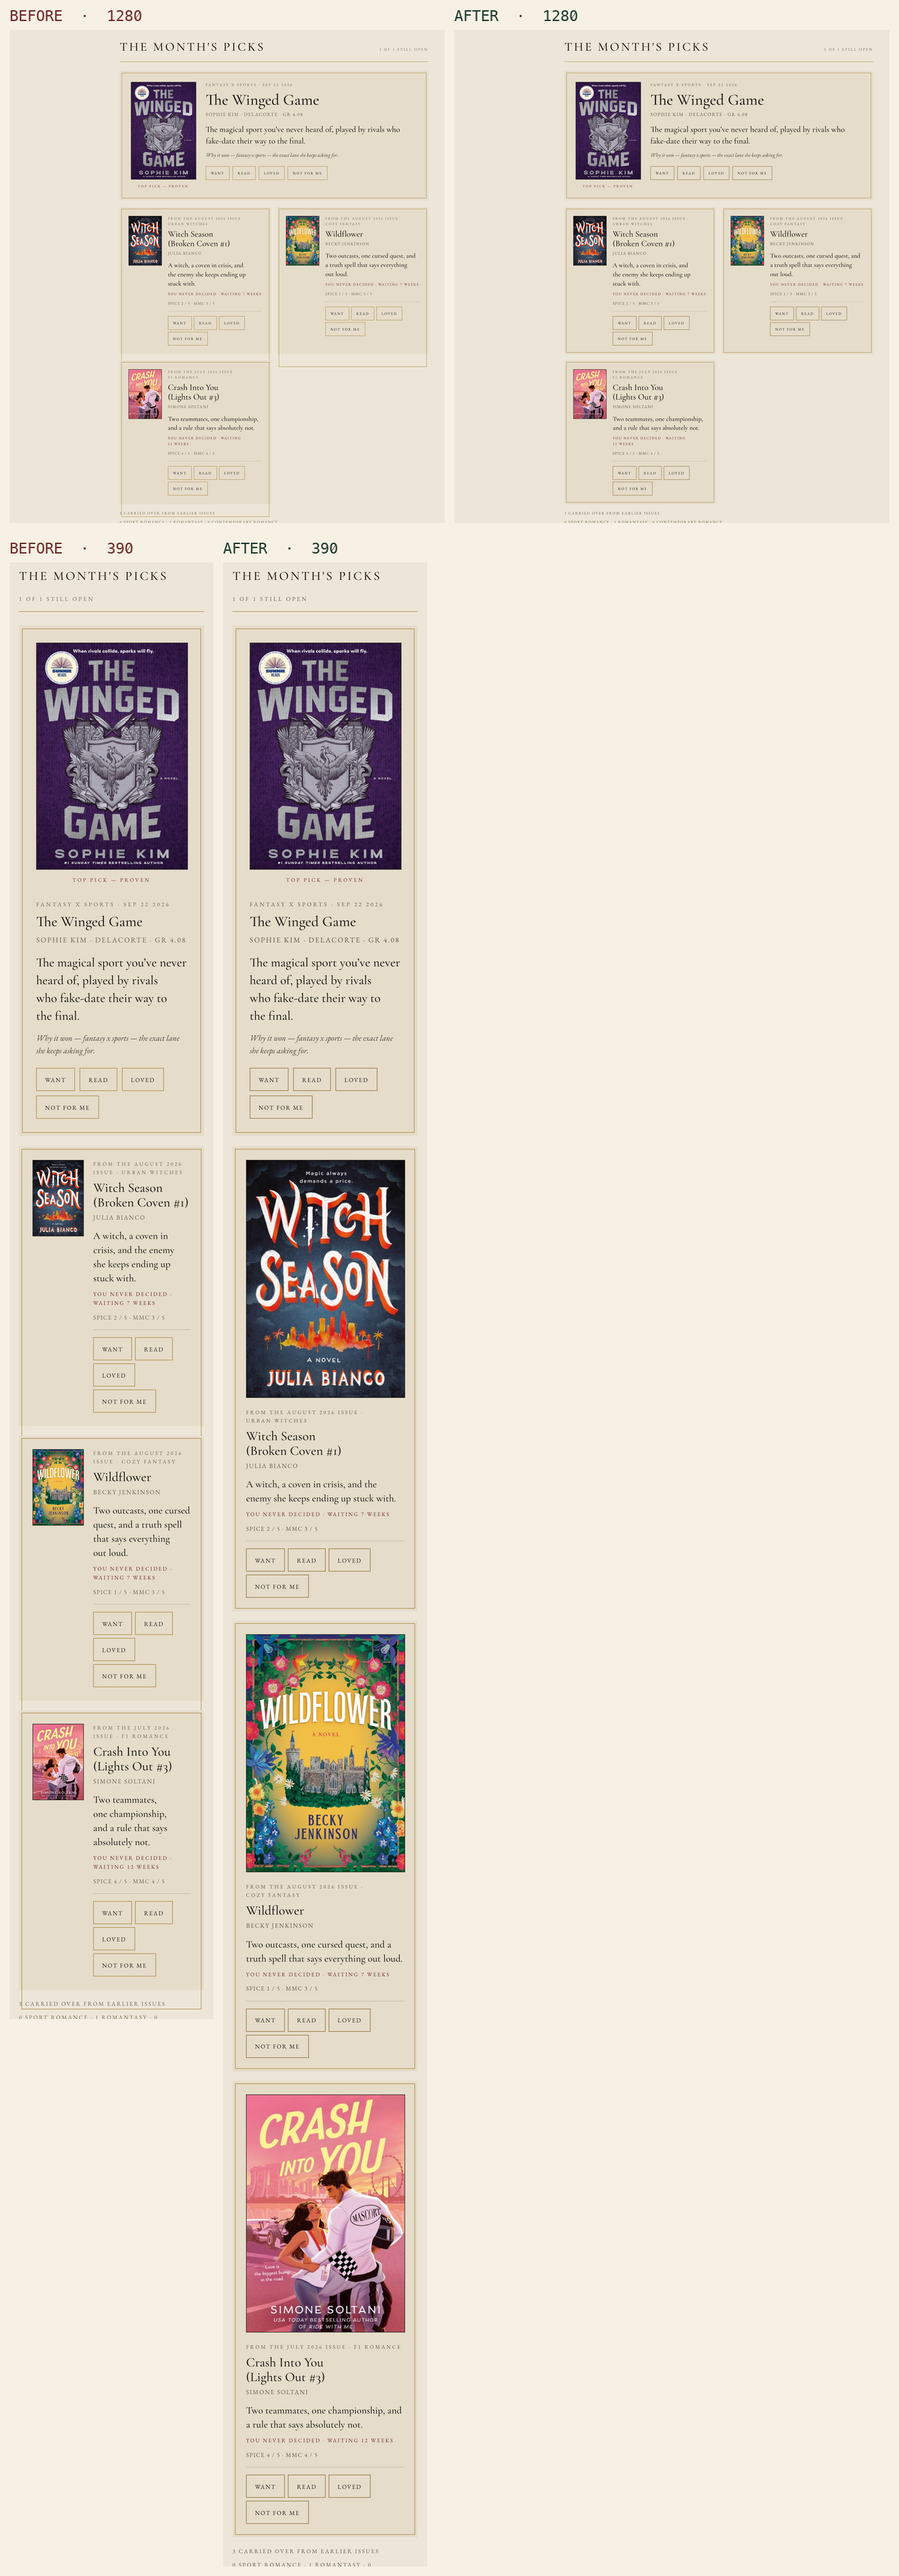
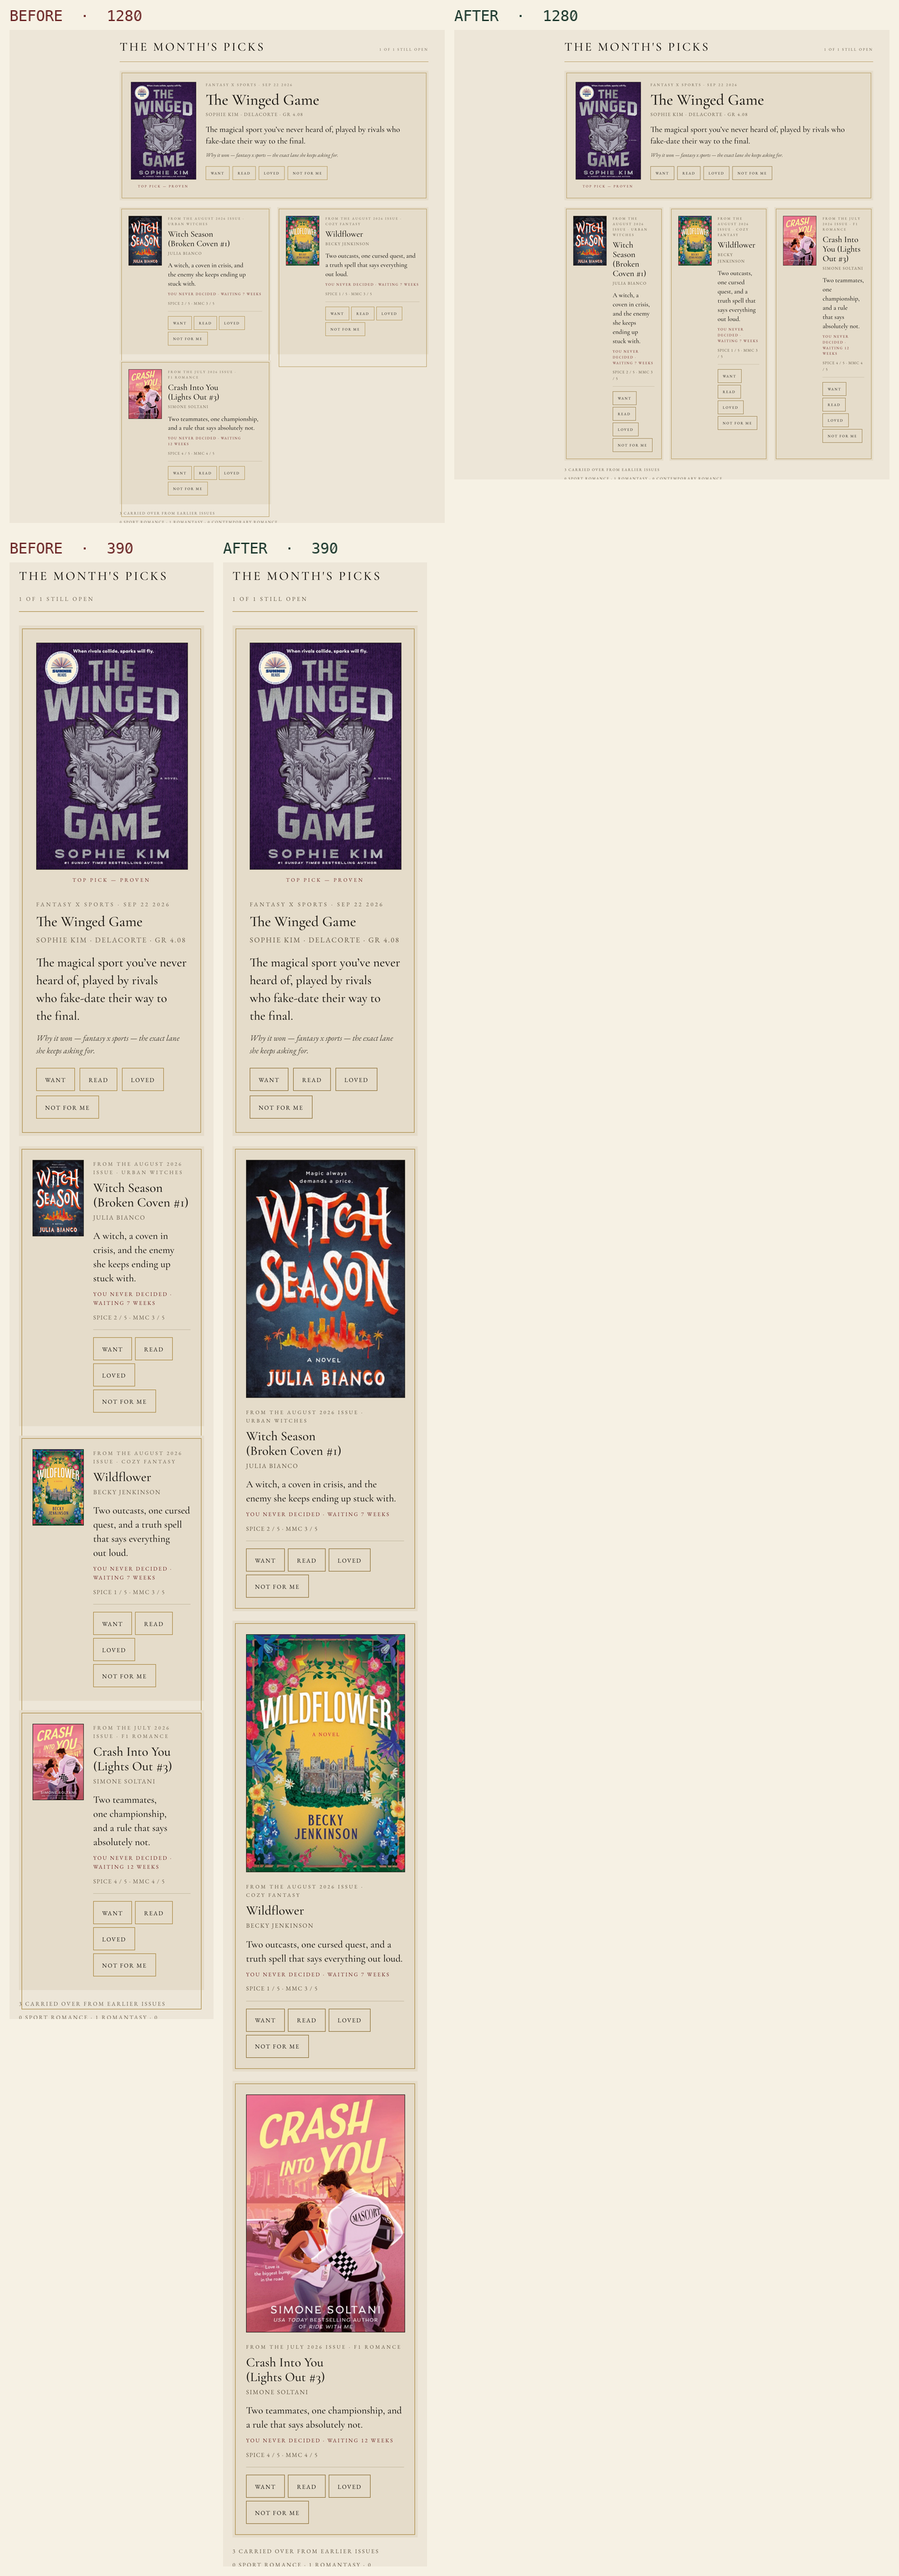
Folds from the two-axis review: the picks grid made explicit, isLight dropped
- the review caught a false claim: minmax(300px,1fr) can never fit three
  tracks at 1280 — the sidebar leaves the grid 908px, so three need a floor
  of <=290. The grid is now explicit: 3 across at >=1248 (1280 -> 290.7px
  tracks), 2 in the middle band, 1 below. Verified: 1600/1436/1280/1248 = 3,
  1247/1001 = 2, 1000/880/700/390/320 = 1; no 2+1 orphan on tablets; 320 now
  renders a single 284px column with zero page overflow (retires the audit's
  320 item). Evidence re-shot against the pre-#73 artifact for like-for-like.
- the orphaned isLight render val is gone (the line it fed was dropped)
- the taste prompt no longer promises the page prints the light-month line

Changed region(s): [[0.6203, 0.0623, 0.9614, 0.2181]]

diff --git a/pipeline/design/app.html b/pipeline/design/app.html
@@ -42,6 +42,13 @@
   h1,h2,h3{text-wrap:balance}
   p,li,figcaption,blockquote{text-wrap:pretty}
   :focus-visible{outline:2px solid #A8863F;outline-offset:2px;box-shadow:0 0 0 1px #211E19}
+  /* #73: the carried-over set is explicit, not auto-fit — 3 across on wide
+     desktops (>=1248 incl. the 1280 laptop), 2 in the middle band, 1 below.
+     A 300px auto-fit floor could never fit 3 at 1280: the sidebar leaves the
+     grid only 908px, so 3 tracks need a floor of <=290. */
+  [data-m="picksgrid"]{grid-template-columns:repeat(3,minmax(0,1fr))}
+  @media (max-width:1247px){[data-m="picksgrid"]{grid-template-columns:repeat(2,minmax(0,1fr))}}
+  @media (max-width:1000px){[data-m="picksgrid"]{grid-template-columns:1fr}}
   .loglink{color:#A8863F;text-decoration:underline;text-underline-offset:2px;cursor:pointer}
   .loglink:hover{color:#211E19}
   /* dense-desktop hit areas (the phone block below raises these to 44) */
@@ -261,7 +268,7 @@
         </article>
         </sc-if>
 
-        <div style="display:grid;grid-template-columns:repeat(auto-fit,minmax(300px,1fr));gap:18px;margin-top:20px">
+        <div data-m="picksgrid" style="display:grid;gap:18px;margin-top:20px">
           <sc-for list="{{ rest }}" as="b" hint-placeholder-count="7">
             <article style="background:#E5DCCA;padding:5px">
               <div style="height:100%;box-sizing:border-box;border:1px solid #A8863F;padding:20px;display:grid;grid-template-columns:minmax(0,96px) minmax(0,1fr);gap:20px;align-items:start" data-m="two">
@@ -1512,7 +1519,7 @@ class Component extends DCLogic {
       lead, hasLead:!!lead, leadIsTop:leadIdx===0, rest,
       pickCount:(d.books||[]).length?(openPicks.length+' of '+(d.books||[]).length+' still open'):'',
       carriedLine:openPending.length?(openPending.length+' carried over from earlier issues'):'',
-      shapeLine:d.month.shapeLine||'', isLight:!!d.month.light,
+      shapeLine:d.month.shapeLine||'',
 
       /* series at a glance */
       seriesGlance:glance,

diff --git a/pipeline/taste-prompt.md b/pipeline/taste-prompt.md
@@ -48,7 +48,8 @@ on the candidate) — otherwise drop.
   wider than the base window: that lane may draw back that many days. If the
   date is missing or outside the window, drop it.
 - If fewer than six books make the bar, that is a light month: pick only what
-  earns its place; the page prints "light month — only the best made it".
+  earns its place. The page no longer announces it (the line was dropped on
+  the reader's call, 2026-09).
 - Sequels are welcome ONLY if they continue a series the reader is already in
   (series names and her read list are in the sequels_map below). Mark them
   `aseq: true`.
